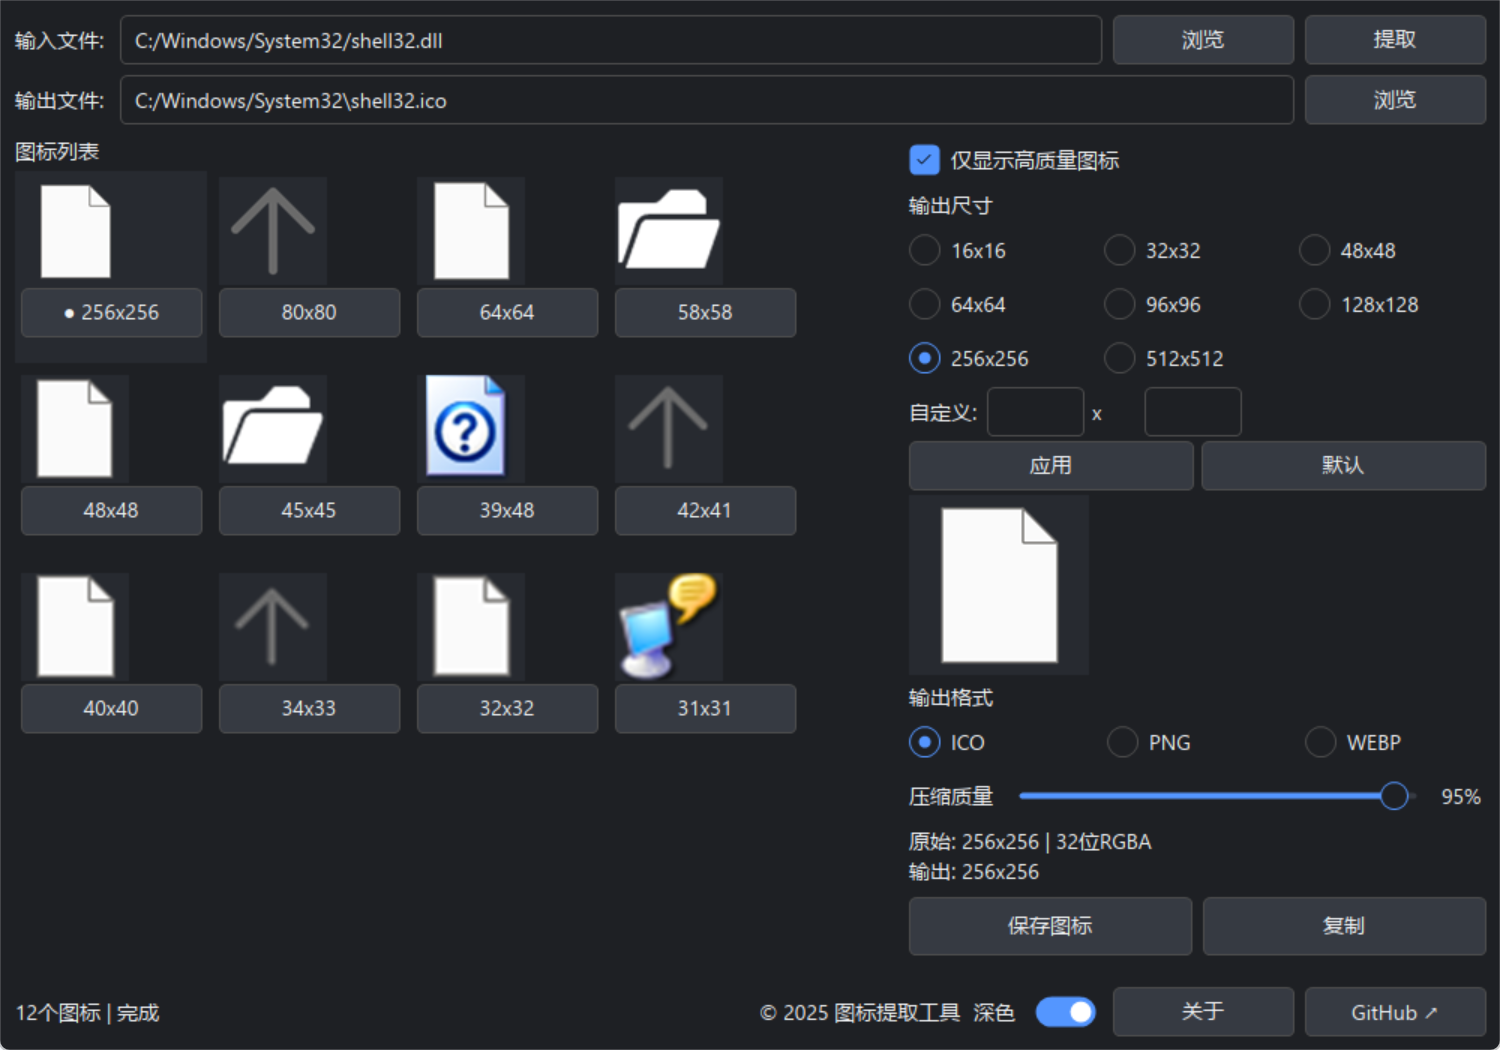
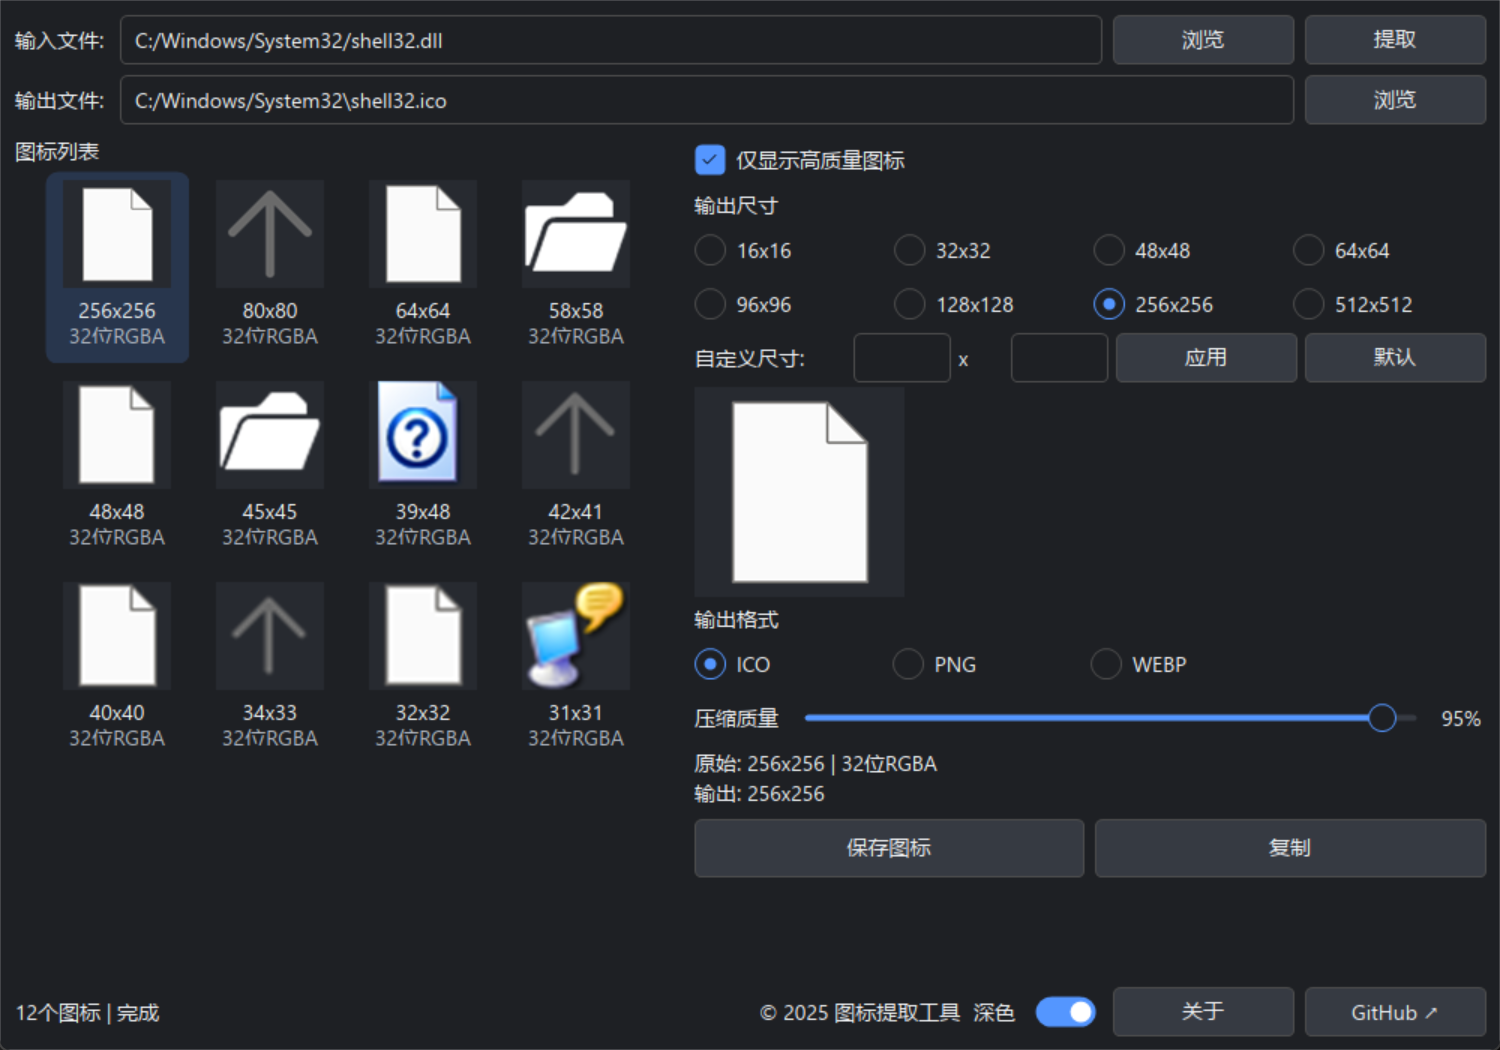
图标列表整块可点并居中，右侧尺寸区改 4 列 2 行
图标列表：
- 每个格子换成 Canvas 当命中层，缩略图作为它的子节点叠在上层，
  于是点图标本体或点文字都能选中（ZSUI 的 on_click 只对 Button/Canvas 生效，
  Button 自带 bezel 又会遮住缩略图）
- 尺寸文本改由 Canvas 图元绘制并水平居中：text 节点会拿到自动 WidgetId
  抢走命中，导致点文字选不中
- 选中态改为强调色薄片，未选中格不带任何底色

右侧面板（对齐参考图）：
- 尺寸预设 4 列 2 行：16/32/48/64 与 96/128/256/512
- 标签、两个输入框、应用、默认收进同一行，输入框均分剩余宽度
- 预览从 120 放大到 140

其他：空列表时信息行保留“原始: -”占位，右侧不再跳行；移除未使用的
IconEntry::caption

diff --git a/src/view.rs b/src/view.rs
@@ -1,14 +1,16 @@
 //! 界面声明（ZSUI 的 `view` 纯函数：只读状态，返回声明树）。
 
 use zsui::{
-    button, checkbox, column, image_preview, radio_button, row, scroll, slider, text, textbox,
-    toggle, Dp, SliderRange, ThemeColorToken, ViewAlign, ViewNode, ZsImageFit, ZsuiThemeMode,
+    button, canvas, checkbox, column, image_preview, radio_button, row, scroll, slider, text,
+    textbox, toggle, ColorRole, Dp, HorizontalAlign, NativeDrawFill, SemanticTextStyle,
+    SliderRange, ThemeColorToken, ViewAlign, ViewJustify, ViewNode, ZsCanvasPrimitive,
+    ZsCanvasRect, ZsCanvasScene, ZsImageFit, ZsuiThemeMode,
 };
 
 use crate::app::{App, Msg};
 use crate::model::{Format, PRESET_SIZES, THUMB_SIZE};
 
-/// 网格列数（窗口宽度固定，5 列可在左栏完整排布）
+/// 网格列数（窗口宽度固定，4 列可在左栏完整排布）
 const GRID_COLUMNS: usize = 4;
 /// 单个格子宽度
 const TILE_WIDTH: f32 = 96.0;
@@ -19,10 +21,12 @@ fn preset_row(sizes: &[u32], current: u32) -> ViewNode<Msg> {
     let cells = sizes
         .iter()
         .map(|size| {
-            radio_button(format!("{size}x{size}"), current == *size).on_choose(Msg::Preset(*size))
+            radio_button(format!("{size}x{size}"), current == *size)
+                .flex(1.0)
+                .on_choose(Msg::Preset(*size))
         })
         .collect::<Vec<_>>();
-    row(cells).gap(Dp::new(10.0)).height(Dp::new(24.0))
+    row(cells).gap(Dp::new(6.0)).height(Dp::new(26.0))
 }
 
 fn tile(app: &App, index: usize) -> ViewNode<Msg> {
@@ -32,50 +36,93 @@ fn tile(app: &App, index: usize) -> ViewNode<Msg> {
     };
     let selected = data.selected == index;
     let snapshot = data.thumb_snapshot(index);
-    let caption = if selected {
-        format!("● {}", icon.caption())
-    } else {
-        icon.caption()
-    };
+    let size_text = icon.size_text();
+    let bit_label = icon.bit_label.clone();
     drop(data);
 
-    let mut children: Vec<ViewNode<Msg>> = Vec::new();
+    // 说明文字直接画进 scene：`text` 节点会拿到自动 WidgetId 并抢走命中，
+    // 点文字就选不中，所以格子内部只保留 image_preview 这一个子节点。
+    let mut size_style = SemanticTextStyle::body();
+    size_style.horizontal_align = HorizontalAlign::Center;
+    let mut bit_style = size_style;
+    bit_style.color = ColorRole::SecondaryText;
+    let caption_width = TILE_WIDTH - 4.0;
+
+    let mut scene = ZsCanvasScene::new();
+    if selected {
+        // 选中态用强调色薄片打底，深浅两套主题下都能看清
+        scene.push(ZsCanvasPrimitive::round_fill(
+            ZsCanvasRect::new(
+                Dp::new(0.0),
+                Dp::new(0.0),
+                Dp::new(TILE_WIDTH),
+                Dp::new(TILE_HEIGHT),
+            ),
+            NativeDrawFill::RoleWithAlpha {
+                role: ColorRole::Accent,
+                alpha: 48,
+            },
+            Dp::new(8.0),
+        ));
+    }
+    let scene = scene
+        .with(ZsCanvasPrimitive::text(
+            size_text,
+            ZsCanvasRect::new(
+                Dp::new(2.0),
+                Dp::new(82.0),
+                Dp::new(caption_width),
+                Dp::new(16.0),
+            ),
+            size_style,
+        ))
+        .with(ZsCanvasPrimitive::text(
+            bit_label,
+            ZsCanvasRect::new(
+                Dp::new(2.0),
+                Dp::new(99.0),
+                Dp::new(caption_width),
+                Dp::new(16.0),
+            ),
+            bit_style,
+        ));
+
+    let mut content: Vec<ViewNode<Msg>> = Vec::new();
     if let Some(snapshot) = snapshot {
-        children.push(
+        content.push(
             image_preview(&snapshot)
                 .width(Dp::new(THUMB_SIZE as f32))
                 .height(Dp::new(THUMB_SIZE as f32))
                 .image_fit(ZsImageFit::Contain),
         );
     }
-    children.push(
-        button(caption)
-            .on_click(Msg::Select(index))
-            .width(Dp::new(TILE_WIDTH - 12.0)),
-    );
 
-    column(children)
-        .gap(Dp::new(2.0))
-        .padding(Dp::new(4.0))
+    // 整块可点：ZSUI 的 `on_click` 只对 Button 与 Canvas 生效，而 Button 自带
+    // 平台 bezel 会盖住缩略图。这里用 Canvas 当命中层，缩略图作为它的子节点
+    // 叠在上层，于是点图标或点文字都能选中。
+    canvas(scene)
+        .on_click(Msg::Select(index))
         .width(Dp::new(TILE_WIDTH))
         .height(Dp::new(TILE_HEIGHT))
-        // 选中项用抬升色块表达，其余与页面同色（保持“无格子背景”）
-        .bg(if selected {
-            ThemeColorToken::SurfaceRaised
-        } else {
-            ThemeColorToken::Surface
-        })
+        // 底色与页面一致，保持“无格子背景”；选中态由 scene 自己画
+        .bg(ThemeColorToken::Surface)
+        .children([column(content)
+            .padding(Dp::new(6.0))
+            .align(ViewAlign::Center)
+            .justify(ViewJustify::Start)])
 }
 
 fn icon_grid(app: &App) -> ViewNode<Msg> {
-    let (count, selected_index) = {
+    let count = {
         let data = app.read();
-        (data.icons.len(), data.selected)
+        data.icons.len()
     };
 
     if count == 0 {
         return column([text("尚未加载图标：可选择文件或把文件拖进窗口")])
             .padding(Dp::new(12.0))
+            .align(ViewAlign::Center)
+            .justify(ViewJustify::Center)
             .flex(1.0);
     }
 
@@ -84,14 +131,18 @@ fn icon_grid(app: &App) -> ViewNode<Msg> {
     while index < count {
         let end = (index + GRID_COLUMNS).min(count);
         let cells = (index..end).map(|i| tile(app, i)).collect::<Vec<_>>();
-        rows.push(row(cells).gap(Dp::new(4.0)).height(Dp::new(TILE_HEIGHT)));
+        rows.push(
+            row(cells)
+                .gap(Dp::new(6.0))
+                .height(Dp::new(TILE_HEIGHT))
+                .justify(ViewJustify::Center),
+        );
         index = end;
     }
     let row_count = rows.len();
-    let content_height = (row_count as f32) * (TILE_HEIGHT + 4.0) + 8.0;
+    let content_height = (row_count as f32) * (TILE_HEIGHT + 6.0) + 8.0;
 
-    let _ = selected_index;
-    scroll(column(rows).gap(Dp::new(4.0)))
+    scroll(column(rows).gap(Dp::new(6.0)))
         .content_height(Dp::new(content_height))
         .flex(1.0)
 }
@@ -100,40 +151,35 @@ fn icon_grid(app: &App) -> ViewNode<Msg> {
 fn control_panel(app: &App) -> ViewNode<Msg> {
     let data = app.read();
 
+    // 尺寸单选按参考布局排成 4 列 2 行
     let size_rows: Vec<ViewNode<Msg>> = vec![
-        preset_row(&PRESET_SIZES[..3], data.width),
-        preset_row(&PRESET_SIZES[3..6], data.width),
-        preset_row(&PRESET_SIZES[6..], data.width),
+        preset_row(&PRESET_SIZES[..4], data.width),
+        preset_row(&PRESET_SIZES[4..], data.width),
     ];
 
-    let custom_input_row = row([
-        text("自定义:"),
-        textbox(&data.custom_w)
-            .width(Dp::new(52.0))
-            .on_change(Msg::CustomW),
+    // 标签、输入框、应用、默认收在同一行（输入框均分剩余宽度）
+    let custom_row = row([
+        text("自定义尺寸:").width(Dp::new(100.0)),
+        textbox(&data.custom_w).flex(1.0).on_change(Msg::CustomW),
         text("x"),
-        textbox(&data.custom_h)
-            .width(Dp::new(52.0))
-            .on_change(Msg::CustomH),
+        textbox(&data.custom_h).flex(1.0).on_change(Msg::CustomH),
+        button("应用")
+            .width(Dp::new(48.0))
+            .on_click(Msg::ApplyCustom),
+        button("默认").width(Dp::new(48.0)).on_click(Msg::ResetSize),
     ])
     .gap(Dp::new(6.0))
     .height(Dp::new(28.0));
 
-    let custom_action_row = row([
-        button("应用").flex(1.0).on_click(Msg::ApplyCustom),
-        button("默认").flex(1.0).on_click(Msg::ResetSize),
-    ])
-    .gap(Dp::new(6.0))
-    .height(Dp::new(28.0));
-
+    let preview_size = 140.0;
     let preview = match data.preview_snapshot() {
         Some(snapshot) => image_preview(&snapshot)
-            .width(Dp::new(120.0))
-            .height(Dp::new(120.0))
+            .width(Dp::new(preview_size))
+            .height(Dp::new(preview_size))
             .image_fit(ZsImageFit::Contain),
         None => column([text("（无预览）")])
-            .height(Dp::new(120.0))
-            .width(Dp::new(120.0)),
+            .height(Dp::new(preview_size))
+            .width(Dp::new(preview_size)),
     };
 
     let format_row = row(Format::ALL
@@ -169,9 +215,7 @@ fn control_panel(app: &App) -> ViewNode<Msg> {
         text("输出尺寸"),
         size_rows[0].clone(),
         size_rows[1].clone(),
-        size_rows[2].clone(),
-        custom_input_row,
-        custom_action_row,
+        custom_row,
         preview,
         text("输出格式"),
         format_row,

diff --git a/src/model.rs b/src/model.rs
@@ -108,11 +108,6 @@ impl IconEntry {
     pub fn size_text(&self) -> String {
         format!("{}x{}", self.width, self.height)
     }
-
-    /// 列表里两行文本：“256x256\n32位RGBA”
-    pub fn caption(&self) -> String {
-        format!("{}\n{}", self.size_text(), self.bit_label)
-    }
 }
 
 /// 生成默认输出路径：与输入同目录、同基名，扩展名跟随当前格式。

diff --git a/src/app.rs b/src/app.rs
@@ -87,7 +87,8 @@ impl AppData {
                 "原始: {}x{} | {}\n输出: {}x{}",
                 icon.width, icon.height, icon.bit_label, self.width, self.height
             ),
-            None => String::new(),
+            // 空列表也给两行占位，右侧面板高度不会跟着跳动
+            None => "原始: -\n输出: -".to_string(),
         }
     }
 

diff --git a/README.md b/README.md
@@ -27,7 +27,7 @@
   <img src="docs/screenshot-light.png" width="780" alt="2icon 浅色主题界面">
 </p>
 
-左侧是可滚动的图标列表（按质量排序，点击即预览），右侧是尺寸、输出格式、压缩质量与预览区域。
+左侧是可滚动的图标列表（按质量排序，图标与尺寸居中显示，点图标或点文字都能选中），右侧是尺寸预设、自定义尺寸、预览、输出格式与压缩质量。
 
 ## 特性
 
